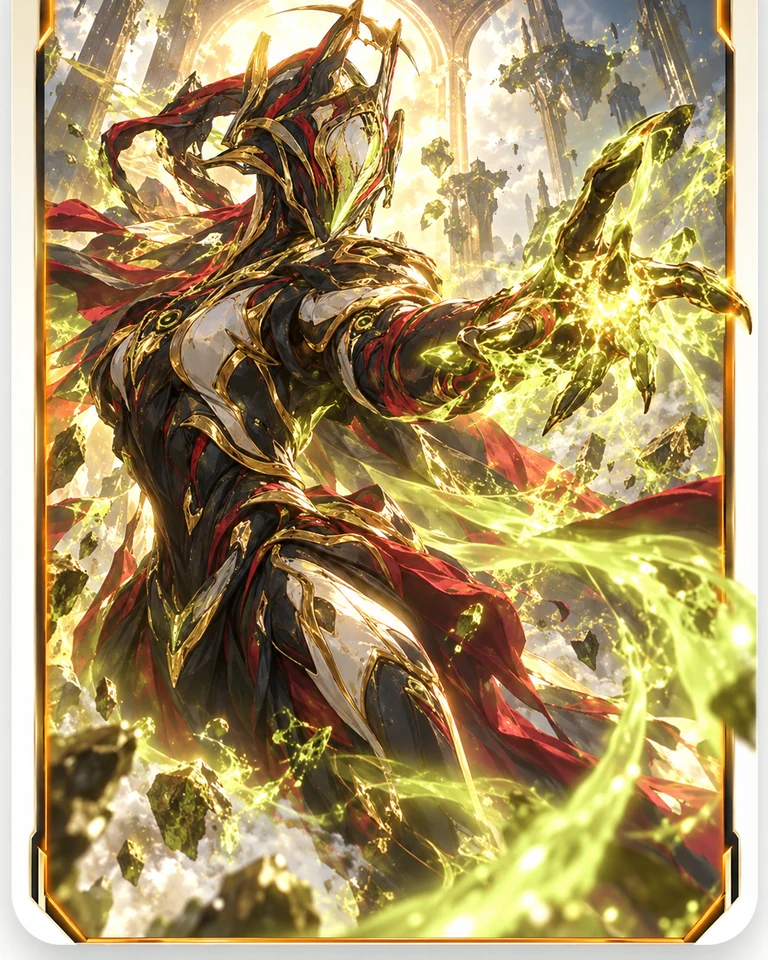
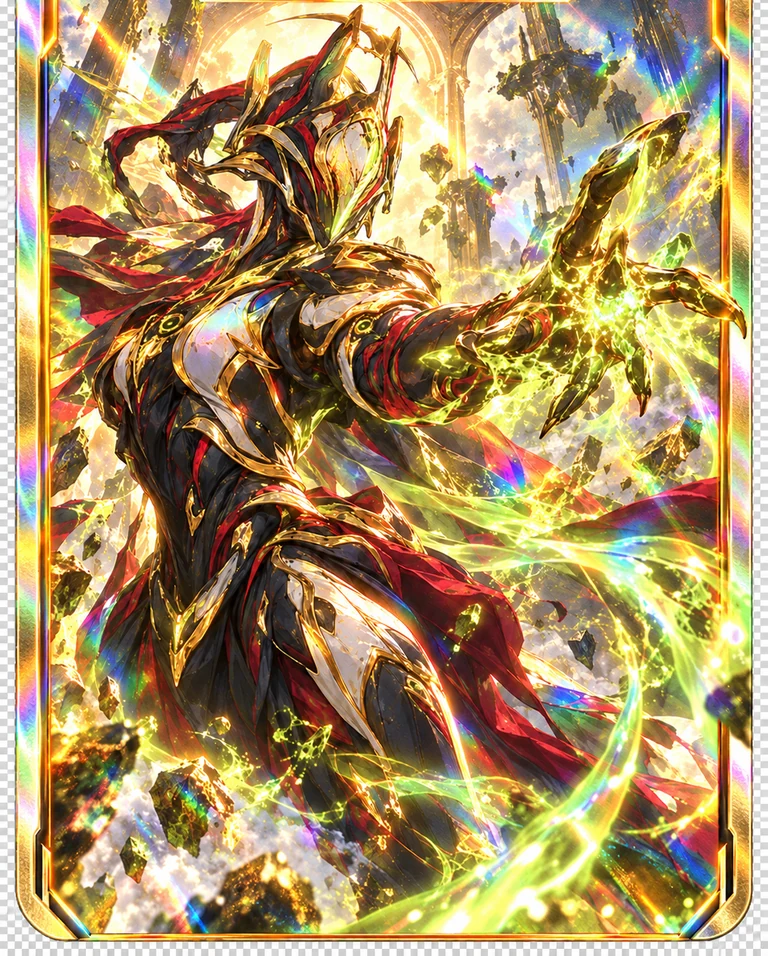
Cards: universal card back (Orokin plate art) + new Archon Continuity full-art
- Jay's back design -> static/cardback.webp (transparent margin trimmed, alpha flattened on dark, exact 5:7, 760x1064). .mcd-back paints it cover; the crest build + old radial/::before frame removed; no text on the back so it reads at any rotation.

- Jay's updated Archon Continuity image -> static/cardart/archon_continuity.webp: baked top nameplate band stripped (7.5%), no white margin in the source, 768x956 webp; cardart/index.json unchanged (same filename).

- Full-art palette tweak: MADURAI/type wording over art bumped brighter with a stronger shadow.

- Verified: cardback.webp / index.json / archon_continuity.webp all 200, crest nodes 0, viewer flip works, vision 10/10 back + 9/10 front; suite 776/2.

diff --git a/static/cards.html b/static/cards.html
@@ -158,7 +158,7 @@
      every other card) — just shadowed harder so it reads over the artwork */
   .mcd-front.has-fullart .mcd-art > .mcd-type { color: color-mix(in srgb, white 82%, transparent); text-shadow: 0 1px 4px black, 0 0 10px rgba(0, 0, 0, .7); }
   .mcd-front.has-fullart .mcd-art > .mcd-pol { color: #fff; text-shadow: 0 2px 6px rgba(0, 0, 0, .9), 0 0 16px rgba(0, 0, 0, .85); }
-  .mcd-front.has-fullart .mcd-art > .mcd-pol-name { color: color-mix(in srgb, white 76%, transparent); text-shadow: 0 1px 4px black; }
+  .mcd-front.has-fullart .mcd-art > .mcd-pol-name { color: color-mix(in srgb, white 88%, transparent); text-shadow: 0 1px 4px black, 0 0 10px rgba(0, 0, 0, .8); }
   .mcd-front.has-fullart .mcd-body { background: linear-gradient(180deg, rgba(9,10,13,0) 0%, rgba(9,10,13,.42) 26%, rgba(9,10,13,.78) 100%); }
   .mcd-front.has-fullart .mcd-name { color: #fff; text-shadow: 0 1px 3px rgba(0, 0, 0, .9); }
 
@@ -259,19 +259,13 @@
   .mcd-card.missing .mcd-name { color: var(--muted); font-weight: 500; }
   .mcd-missing-flag { font: 10px var(--mono); color: var(--muted); text-transform: uppercase; letter-spacing: .5px; }
 
-  /* back face — clean collectible back: crest only, no stats panels. Every card detail
-     lives in the inspect panel (the card itself stays artwork + presentation). */
+  /* back face — ONE universal card back for every card: the Orokin plate art
+     (static/cardback.webp) is the design itself. No text on it, so it reads the
+     same upside-down; every card detail lives in the inspect panel. */
   .mcd-back {
-    padding: 0; align-items: center; justify-content: center; overflow: hidden;
-    background: radial-gradient(120% 100% at 50% 32%, #1b1d22 0%, #101114 55%, #0a0b0d 100%);
+    padding: 0; overflow: hidden;
+    background: #0a0b0d url('/cardback.webp') center / cover no-repeat;
   }
-  .mcd-back::before {
-    content: ""; position: absolute; inset: 7px; border-radius: 7px;
-    border: 1px solid color-mix(in srgb, var(--accent) 20%, transparent); pointer-events: none;
-  }
-  .mcd-back-crest { display: flex; flex-direction: column; align-items: center; gap: 8px; opacity: .85; }
-  .mcd-back-crest img { width: 44px; height: 44px; border-radius: 10px; box-shadow: 0 6px 18px rgba(0, 0, 0, .55); }
-  .mcd-back-crest span { font: 700 8.5px var(--mono); letter-spacing: 2.5px; color: var(--muted); text-transform: uppercase; }
   /* the grade reason line renders inside the inspect details panel */
   .mcd-grade {
     font: 11px var(--mono); color: var(--muted); line-height: 1.6;

diff --git a/static/cards.js b/static/cards.js
@@ -590,16 +590,9 @@
     body.appendChild(priceLine(card));
     front.appendChild(body);
 
-    // back — clean collectible back (crest only); all card details live in the inspect panel
+    // back — the universal card back (static/cardback.webp, painted by CSS); all card
+    // details live in the inspect panel
     var back = el('div', 'mcd-face mcd-back');
-    var crest = el('div', 'mcd-back-crest');
-    var crestImg = el('img', null);
-    crestImg.src = '/favicon.png';
-    crestImg.alt = '';
-    crestImg.loading = 'lazy';
-    crest.appendChild(crestImg);
-    crest.appendChild(el('span', null, 'WFM Trader'));
-    back.appendChild(crest);
 
     addFoilLayers(front);
     addFoilLayers(back);

diff --git a/tests/test_mod_cards.py b/tests/test_mod_cards.py
@@ -429,7 +429,7 @@ def test_js_can_find_the_build_on_this_machine():
 def test_js_renders_the_card_mechanics_the_page_promises():
     js = open(SCRIPT, encoding='utf-8').read()
     for token in ('rarityClass', "'r-'", 'is-prime', 'missing', 'mcd-dup', 'mcd-pips', 'flipped',
-                  'mcd-back-crest', 'mcd-pol', 'mcd-type', 'mcd-desc', 'mcd-price', 'mcd-rank',
+                  'mcd-pol', 'mcd-type', 'mcd-desc', 'mcd-price', 'mcd-rank',
                   'floor ', 'med ', 'no local quote', 'not owned', '\u00d7'):
         assert token in js, token
     for polarity in ('madurai', 'vazarin', 'naramon', 'zenurik', 'unairu', 'penjaga', 'umbra',
@@ -437,12 +437,15 @@ def test_js_renders_the_card_mechanics_the_page_promises():
         assert polarity in js, polarity
 
 
-def test_back_is_crest_only_and_details_render_in_the_panel():
-    """Card spec: the physical back stays clean; every detail lives in the inspect panel."""
+def test_back_is_the_universal_card_back_and_details_render_in_the_panel():
+    """Card spec: one shared back design for every card; details live in the inspect panel."""
     js = open(SCRIPT, encoding='utf-8').read()
-    for banned in ('mcd-stats', 'mcd-back-meta', 'mcd-back-name', 'mcd-back-slug', 'cardbacks/'):
-        assert banned not in js, banned                       # old back-info system fully gone
-    assert "mcd-back-crest" in js                             # backs carry the crest only
+    html = open(PAGE, encoding='utf-8').read()
+    for banned in ('mcd-stats', 'mcd-back-meta', 'mcd-back-name', 'mcd-back-slug', 'cardbacks/',
+                   'mcd-back-crest'):
+        assert banned not in js, banned                       # old back-info systems fully gone
+    assert 'mcd-back-crest' not in html
+    assert "url('/cardback.webp')" in html                    # the universal back art
     assert "I.info.appendChild(gradeLine(card))" in js        # grade reason moved to the panel
     assert "ins-stats" in js and "stats_text" in js           # stat line + rows feed the panel
     # full-art fronts: manifest-driven, front face, standard cards untouched
